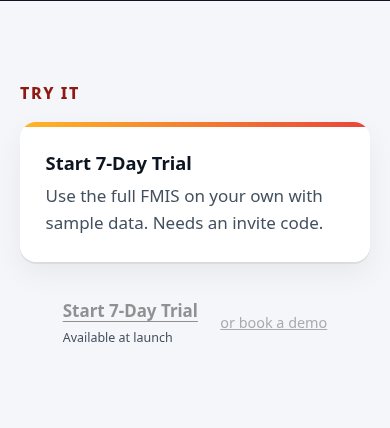
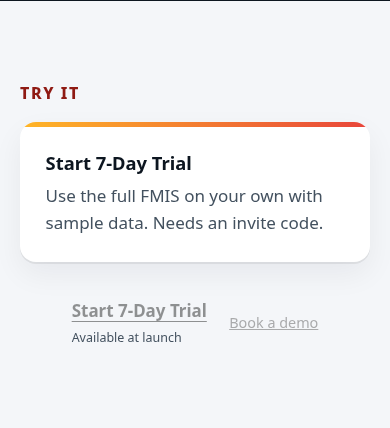
Lone disabled demo label: 'Book a demo'; re-take after crops; regenerate restore patch

Changed region(s): [[0.1538, 0.6986, 0.5538, 0.8201], [0.6462, 0.729, 0.8308, 0.7897], [0.5538, 0.729, 0.6154, 0.7897]]

diff --git a/index.html b/index.html
@@ -231,7 +231,7 @@ h1.tag{font-size:clamp(1.7rem,3.4vw,2.7rem);line-height:1.12;margin:.6rem 0 1rem
 <div class="ways cards">
  <div class="card reveal"><b>Start 7-Day Trial</b><p>Use the full FMIS on your own with sample data. Needs an invite code.</p></div>
 </div>
-<div class="ctas center reveal"><span class="start"><button type="button" class="ghost pl-off" aria-disabled="true" title="Available at launch">Start 7-Day Trial</button><small>Available at launch</small></span><span class="pd"><button type="button" class="tl pl-off" aria-disabled="true" title="Available at launch">or book a demo</button></span></div>
+<div class="ctas center reveal"><span class="start"><button type="button" class="ghost pl-off" aria-disabled="true" title="Available at launch">Start 7-Day Trial</button><small>Available at launch</small></span><span class="pd"><button type="button" class="tl pl-off" aria-disabled="true" title="Available at launch">Book a demo</button></span></div>
 </div></section>
 
 <section class="itp" id="it"><div class="w">
